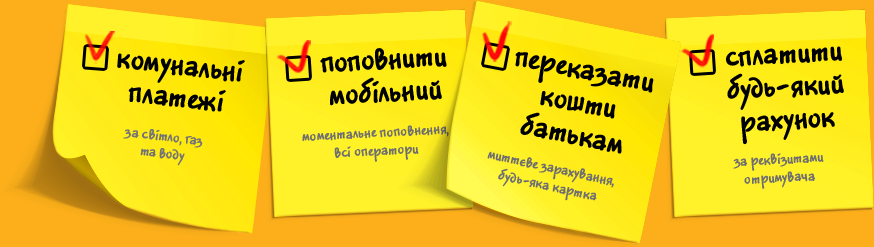
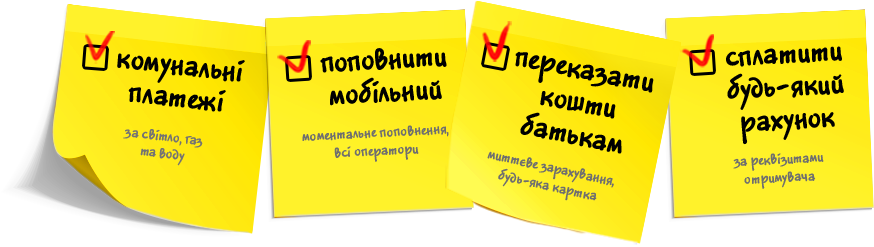
Sticky notes animation

Changed region(s): [[0.0, 0.0, 1.0, 1.0]]

diff --git a/src/less/stickers.less b/src/less/stickers.less
@@ -1,0 +1,77 @@
+.stickers{
+    height: 250px;
+    width: 823px;
+    margin: 0 auto;
+    text-align: center;
+    white-space: nowrap;
+
+    .sticker{
+        display: inline-block;
+        position: relative;
+        transition: transform .15s linear;
+        &::before{
+            opacity: .75;
+            transition: opacity .15s linear;
+            z-index: -1;
+
+        }
+        &.sticker-1{
+            z-index: 5;
+            &:before{
+                content: '';
+                position: absolute;
+                top: -2px;
+                left: -52px;
+                //border: 1px solid red;
+                background: transparent url("../im/sticker1-shadow.png") 0 0 no-repeat;
+
+                width: 254px;
+                height: 233px;
+            }
+        }
+        &.sticker-2{
+            left: -15px;
+            top: -5px;
+            z-index: 6;
+            &:before{
+                content: '';
+                position: absolute;
+                top: 0;
+                left: -4px;
+                //border: 1px solid red;
+                background: transparent url("../im/sticker2-shadow.png") 0 0 no-repeat;
+                width: 215px;
+                height: 214px;
+            }
+
+        }
+        &.sticker-3{
+            left: -50px;
+            top: 5px;
+            z-index: 7;
+        }
+        &.sticker-4{
+            left: -69px;
+            top: -5px;
+            z-index: 6;
+            &:before{
+                content: '';
+                position: absolute;
+                bottom: -2px;
+                left: -1px;
+                //border: 1px solid red;
+                background: transparent url("../im/sticker4-shadow.png") 0 0 no-repeat;
+                width: 147px;
+                height: 146px;
+            }
+        }
+
+        &:hover{
+            cursor: pointer;
+            transform: rotateX(-12deg);
+            &::before{
+                opacity: 1;
+            }
+        }
+    }
+}

diff --git a/src/index.html b/src/index.html
@@ -3,8 +3,8 @@
 <html lang="en">
 <head>
     <meta charset="utf-8">
-    <meta http-equiv="X-UA-Compatible" content="IE=edge">
-    <meta name="viewport" content="width=device-width, initial-scale=1">
+    <meta content="IE=edge" http-equiv="X-UA-Compatible">
+    <meta content="width=device-width,initial-scale=1" name="viewport">
     <meta name="description" content="">
     <meta name="author" content="">
     <link rel="icon" href="../../favicon.ico">
@@ -54,7 +54,18 @@
                     <div class="slide-header-lvl3">де б ви не були</div>
                 </div>
                 <div class="stickers">
-                    <img src="im/stickers.png" alt="" />
+                    <div class="sticker sticker-1">
+                        <img src="im/sticker1.png" alt="">
+                    </div>
+                    <div class="sticker sticker-2">
+                        <img src="im/sticker2.png" alt="">
+                    </div>
+                    <div class="sticker sticker-3">
+                        <img src="im/sticker3.png" alt="">
+                    </div>
+                    <div class="sticker sticker-4">
+                        <img src="im/sticker4.png" alt="">
+                    </div>
                 </div>
             </div>
         </div>
@@ -233,7 +244,8 @@
     $(document).ready(function() {
         $('#secSlider').fullpage({
             anchors:['topSection', 'paySection', 'advSection', 'regSection'],
-            menu: '#sliderMenu'
+            menu: '#sliderMenu',
+            responsiveWidth: 768
         });
 
         $('#carousel').carousel('pause');

diff --git a/src/css/main.css b/src/css/main.css
@@ -484,6 +484,75 @@ html.fp-enabled,
   top: 50%;
   margin-top: -33px;
 }
+.stickers {
+  height: 250px;
+  width: 823px;
+  margin: 0 auto;
+  text-align: center;
+  white-space: nowrap;
+}
+.stickers .sticker {
+  display: inline-block;
+  position: relative;
+  transition: transform .15s linear;
+}
+.stickers .sticker::before {
+  opacity: .75;
+  transition: opacity .15s linear;
+  z-index: -1;
+}
+.stickers .sticker.sticker-1 {
+  z-index: 5;
+}
+.stickers .sticker.sticker-1:before {
+  content: '';
+  position: absolute;
+  top: -2px;
+  left: -52px;
+  background: transparent url("../im/sticker1-shadow.png") 0 0 no-repeat;
+  width: 254px;
+  height: 233px;
+}
+.stickers .sticker.sticker-2 {
+  left: -15px;
+  top: -5px;
+  z-index: 6;
+}
+.stickers .sticker.sticker-2:before {
+  content: '';
+  position: absolute;
+  top: 0;
+  left: -4px;
+  background: transparent url("../im/sticker2-shadow.png") 0 0 no-repeat;
+  width: 215px;
+  height: 214px;
+}
+.stickers .sticker.sticker-3 {
+  left: -50px;
+  top: 5px;
+  z-index: 7;
+}
+.stickers .sticker.sticker-4 {
+  left: -69px;
+  top: -5px;
+  z-index: 6;
+}
+.stickers .sticker.sticker-4:before {
+  content: '';
+  position: absolute;
+  bottom: -2px;
+  left: -1px;
+  background: transparent url("../im/sticker4-shadow.png") 0 0 no-repeat;
+  width: 147px;
+  height: 146px;
+}
+.stickers .sticker:hover {
+  cursor: pointer;
+  transform: rotateX(-12deg);
+}
+.stickers .sticker:hover::before {
+  opacity: 1;
+}
 footer {
   padding: 65px 0;
   background-color: #f9f9fb;

diff --git a/src/less/main.less b/src/less/main.less
@@ -10,5 +10,6 @@
 @import "carousel";
 @import "signup-form";
 @import "controls";
+@import "stickers";
 
 @import "footer";
